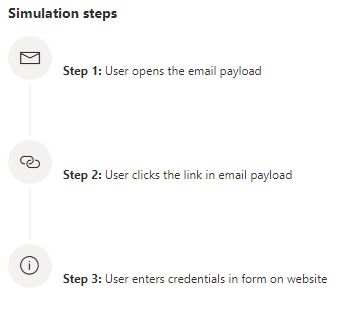
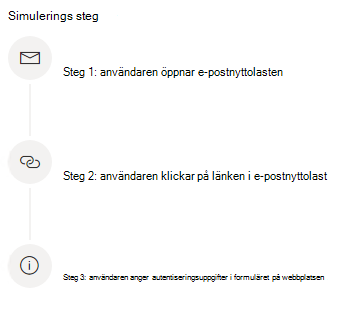
commit translated contents

diff --git a/microsoft-365/security/office-365-security/recommended-settings-for-eop-and-office365-atp.md b/microsoft-365/security/office-365-security/recommended-settings-for-eop-and-office365-atp.md
@@ -17,12 +17,12 @@ ms.collection:
 - M365-security-compliance
 - m365initiative-m365-defender
 description: Vad är metod tips för säkerhets inställningar för Exchange Online Protection (EOP) och Defender för Office 365? Vad är de senaste rekommendationerna för standard skydd? Vad ska användas om du vill veta mer? Vilka extrafunktioner får du om du även använder Defender för Office 365?
-ms.openlocfilehash: ab8640574d15cc1950ac0873ef90c4d984553510
-ms.sourcegitcommit: 815229e39a0f905d9f06717f00dc82e2a028fa7c
+ms.openlocfilehash: 032cd6a50f56fd3e1e47faebfaea5f6665553a4b
+ms.sourcegitcommit: 09518b7c9146cda7fd42839ee644ad418d48491a
 ms.translationtype: MT
 ms.contentlocale: sv-SE
-ms.lasthandoff: 11/03/2020
-ms.locfileid: "48845654"
+ms.lasthandoff: 11/12/2020
+ms.locfileid: "49001531"
 ---
 # <a name="recommended-settings-for-eop-and-microsoft-defender-for-office-365-security"></a>Rekommenderade inställningar för EOP och Microsoft Defender för Office 365-säkerhet
 
@@ -54,22 +54,22 @@ Information om hur du skapar och konfigurerar principer för skräp post hanteri
 
 |Säkerhetsfunktionens namn|Standard|Standard|Tillåts|Kommentar|
 |---|:---:|:---:|:---:|---|
-|Åtgärd för **skräp post** <br/><br/> _SpamAction_|**Flytta meddelandet till mappen skräp post** <br/><br/> `MoveToJmf`|**Flytta meddelandet till mappen skräp post** <br/><br/> `MoveToJmf`|**Karantän meddelande** <br/><br/> `Quarantine`||
-|Åtgärd för dubblettidentifiering för **snabb meddelanden** <br/><br/> _HighConfidenceSpamAction_|**Flytta meddelandet till mappen skräp post** <br/><br/> `MoveToJmf`|**Karantän meddelande** <br/><br/> `Quarantine`|**Karantän meddelande** <br/><br/> `Quarantine`||
-|Åtgärd för identifiering av **nätfiske-e-post** <br/><br/> _PhishSpamAction_|**Flytta meddelandet till mappen skräp post** <br/><br/> `MoveToJmf`|**Karantän meddelande** <br/><br/> `Quarantine`|**Karantän meddelande** <br/><br/> `Quarantine`||
-|Åtgärd för **e-post med hög exakthet** <br/><br/> _HighConfidencePhishAction_|**Karantän meddelande** <br/><br/> `Quarantine`|**Karantän meddelande** <br/><br/> `Quarantine`|**Karantän meddelande** <br/><br/> `Quarantine`||
-|**Mass utskick av e-post** <br/><br/> _BulkSpamAction_|**Flytta meddelandet till mappen skräp post** <br/><br/> `MoveToJmf`|**Flytta meddelandet till mappen skräp post** <br/><br/> `MoveToJmf`|**Karantän meddelande** <br/><br/> `Quarantine`||
-|Mass utskick <br/><br/> _BulkThreshold_|borttagning|18.6|9.4|Mer information finns i [Mass inklagomåls nivå (BCL) i Office 365](bulk-complaint-level-values.md).|
-|Karantän period <br/><br/> _QuarantineRetentionPeriod_|15 dagar|30 dagar|30 dagar||
-|**Säkerhets tips** <br/><br/> _InlineSafetyTipsEnabled_|På <br/><br/> `$true`|På <br/><br/> `$true`|På <br/><br/> `$true`||
-|Tillåtna avsändare <br/><br/> _AllowedSenders_|Inga|Inga|Inga||
-|Tillåtna avsändare-domäner <br/><br/> _AllowedSenderDomains_|Inga|Inga|Inga|Det är mycket dåligt att lägga till domäner i listan Tillåtna avsändare. Angripare kan skicka e-post som annars skulle filtreras bort. <br/><br/> Använd [förfalsknings intelligens](learn-about-spoof-intelligence.md) i säkerhets & Compliance Center på sidan **Inställningar för skräp post** för att granska alla avsändare som har falska e-postadresser i organisationens e-postdomäner eller som falska e-postadresser för avsändare i externa domäner.|
-|Spärrade avsändare <br/><br/> _BlockedSenders_|Inga|Inga|Inga||
-|Blockerade avsändare <br/><br/> _BlockedSenderDomains_|Inga|Inga|Inga||
-|**Aktivera skräp post meddelanden för slutanvändare** <br/><br/> _EnableEndUserSpamNotifications_|Inaktiverad <br/><br/> `$false`|Aktiverad <br/><br/> `$true`|Aktiverad <br/><br/> `$true`||
-|**Skicka skräp post meddelanden till slutanvändaren var (dagar)** <br/><br/> _EndUserSpamNotificationFrequency_|3 dagar|3 dagar|3 dagar||
-|**Spam** <br/><br/> _SpamZapEnabled_|Aktiverad <br/><br/> `$true`|Aktiverad <br/><br/> `$true`|Aktiverad <br/><br/> `$true`||
-|**Phish ZAP** <br/><br/> _PhishZapEnabled_|Aktiverad <br/><br/> `$true`|Aktiverad <br/><br/> `$true`|Aktiverad <br/><br/> `$true`||
+|Åtgärd för **skräp post** <p> _SpamAction_|**Flytta meddelandet till mappen skräp post** <p> `MoveToJmf`|**Flytta meddelandet till mappen skräp post** <p> `MoveToJmf`|**Karantän meddelande** <p> `Quarantine`||
+|Åtgärd för dubblettidentifiering för **snabb meddelanden** <p> _HighConfidenceSpamAction_|**Flytta meddelandet till mappen skräp post** <p> `MoveToJmf`|**Karantän meddelande** <p> `Quarantine`|**Karantän meddelande** <p> `Quarantine`||
+|Åtgärd för identifiering av **nätfiske-e-post** <p> _PhishSpamAction_|**Flytta meddelandet till mappen skräp post** <p> `MoveToJmf`|**Karantän meddelande** <p> `Quarantine`|**Karantän meddelande** <p> `Quarantine`||
+|Åtgärd för **e-post med hög exakthet** <p> _HighConfidencePhishAction_|**Karantän meddelande** <p> `Quarantine`|**Karantän meddelande** <p> `Quarantine`|**Karantän meddelande** <p> `Quarantine`||
+|**Mass utskick av e-post** <p> _BulkSpamAction_|**Flytta meddelandet till mappen skräp post** <p> `MoveToJmf`|**Flytta meddelandet till mappen skräp post** <p> `MoveToJmf`|**Karantän meddelande** <p> `Quarantine`||
+|Mass utskick <p> _BulkThreshold_|borttagning|18.6|9.4|Mer information finns i [Mass inklagomåls nivå (BCL) i Office 365](bulk-complaint-level-values.md).|
+|Karantän period <p> _QuarantineRetentionPeriod_|15 dagar|30 dagar|30 dagar||
+|**Säkerhets tips** <p> _InlineSafetyTipsEnabled_|På <p> `$true`|På <p> `$true`|På <p> `$true`||
+|Tillåtna avsändare <p> _AllowedSenders_|Inga|Inga|Inga||
+|Tillåtna avsändare-domäner <p> _AllowedSenderDomains_|Inga|Inga|Inga|Det är mycket dåligt att lägga till domäner i listan Tillåtna avsändare. Angripare kan skicka e-post som annars skulle filtreras bort. <p> Använd [förfalsknings intelligens](learn-about-spoof-intelligence.md) i säkerhets & Compliance Center på sidan **Inställningar för skräp post** för att granska alla avsändare som har falska e-postadresser i organisationens e-postdomäner eller som falska e-postadresser för avsändare i externa domäner.|
+|Spärrade avsändare <p> _BlockedSenders_|Inga|Inga|Inga||
+|Blockerade avsändare <p> _BlockedSenderDomains_|Inga|Inga|Inga||
+|**Aktivera skräp post meddelanden för slutanvändare** <p> _EnableEndUserSpamNotifications_|Inaktiverad <p> `$false`|Aktiverad <p> `$true`|Aktiverad <p> `$true`||
+|**Skicka skräp post meddelanden till slutanvändaren var (dagar)** <p> _EndUserSpamNotificationFrequency_|3 dagar|3 dagar|3 dagar||
+|**Spam** <p> _SpamZapEnabled_|Aktiverad <p> `$true`|Aktiverad <p> `$true`|Aktiverad <p> `$true`||
+|**Phish ZAP** <p> _PhishZapEnabled_|Aktiverad <p> `$true`|Aktiverad <p> `$true`|Aktiverad <p> `$true`||
 |_MarkAsSpamBulkMail_|På|På|På|Den här inställningen är bara tillgänglig i PowerShell.|
 |
 
@@ -108,10 +108,10 @@ Mer information om standard begränsningar för sändning av tjänsten finns i a
 
 |Säkerhetsfunktionens namn|Standard|Standard|Tillåts|Kommentar|
 |---|:---:|:---:|:---:|---|
-|**Maximalt antal mottagare per användare: extern Tim gräns** <br/><br/> _RecipientLimitExternalPerHour_|siffrorna|500|400|Standardvärdet 0 betyder att använda tjänstens standardvärden.|
-|**Maximalt antal mottagare per användare: intern Tim gräns** <br/><br/> _RecipientLimitInternalPerHour_|siffrorna|1000|800|Standardvärdet 0 betyder att använda tjänstens standardvärden.|
-|**Maximalt antal mottagare per användare: daglig gräns** <br/><br/> _RecipientLimitPerDay_|siffrorna|1000|800|Standardvärdet 0 betyder att använda tjänstens standardvärden.|
-|**Åtgärd när en användare överskrider gränserna** <br/><br/> _ActionWhenThresholdReached_|**Hindra användare från att skicka e-post till följande dag** <br/><br/> `BlockUserForToday`|**Hindra användare från att skicka e-post** <br/><br/> `BlockUser`|**Hindra användare från att skicka e-post** <br/><br/> `BlockUser`||
+|**Maximalt antal mottagare per användare: extern Tim gräns** <p> _RecipientLimitExternalPerHour_|siffrorna|500|400|Standardvärdet 0 betyder att använda tjänstens standardvärden.|
+|**Maximalt antal mottagare per användare: intern Tim gräns** <p> _RecipientLimitInternalPerHour_|siffrorna|1000|800|Standardvärdet 0 betyder att använda tjänstens standardvärden.|
+|**Maximalt antal mottagare per användare: daglig gräns** <p> _RecipientLimitPerDay_|siffrorna|1000|800|Standardvärdet 0 betyder att använda tjänstens standardvärden.|
+|**Åtgärd när en användare överskrider gränserna** <p> _ActionWhenThresholdReached_|**Hindra användare från att skicka e-post till följande dag** <p> `BlockUserForToday`|**Hindra användare från att skicka e-post** <p> `BlockUser`|**Hindra användare från att skicka e-post** <p> `BlockUser`||
 |
 
 ### <a name="eop-anti-malware-policy-settings"></a>EOP policy inställningar för mot skadlig program vara
@@ -122,11 +122,11 @@ Information om hur du skapar och konfigurerar principer mot skadlig program vara
 
 |Säkerhetsfunktionens namn|Standard|Standard|Tillåts|Kommentar|
 |---|:---:|:---:|:---:|---|
-|**Vill du meddela mottagare om deras meddelanden är i karantän?** <br/><br/> _Fattning_|Nej <br/><br/> _DeleteMessage_|Nej <br/><br/> _DeleteMessage_|Nej <br/><br/> _DeleteMessage_|Om skadlig kod hittas i en e-postbilaga är meddelandet satt i karantän och kan bara släppas av en administratör.|
-|**Filtret vanliga bilagor** <br/><br/> _EnableFileFilter_|Av <br/><br/> `$false`|På <br/><br/> `$true`|På <br/><br/> `$true`|Den här inställningen skapar karantän meddelanden som innehåller körbara bilagor baserat på filtyp, oavsett innehållet i bifogade filer.|
-|**Automatisk borttagning av skadlig program vara** <br/><br/> _ZapEnabled_|På <br/><br/> `$true`|På <br/><br/> `$true`|På <br/><br/> `$true`||
-|**Meddela interna avsändare** om det ej skickade meddelandet <br/><br/> _EnableInternalSenderNotifications_|Inaktiverad <br/><br/> `$false`|Inaktiverad <br/><br/> `$false`|Inaktiverad <br/><br/> `$false`||
-|**Meddela externa avsändare** för det ej skickade meddelandet <br/><br/> _EnableExternalSenderNotifications_|Inaktiverad <br/><br/> `$false`|Inaktiverad <br/><br/> `$false`|Inaktiverad <br/><br/> `$false`||
+|**Vill du meddela mottagare om deras meddelanden är i karantän?** <p> _Fattning_|Nej <p> _DeleteMessage_|Nej <p> _DeleteMessage_|Nej <p> _DeleteMessage_|Om skadlig kod hittas i en e-postbilaga är meddelandet satt i karantän och kan bara släppas av en administratör.|
+|**Filtret vanliga bilagor** <p> _EnableFileFilter_|Av <p> `$false`|På <p> `$true`|På <p> `$true`|Den här inställningen skapar karantän meddelanden som innehåller körbara bilagor baserat på filtyp, oavsett innehållet i bifogade filer.|
+|**Automatisk borttagning av skadlig program vara** <p> _ZapEnabled_|På <p> `$true`|På <p> `$true`|På <p> `$true`||
+|**Meddela interna avsändare** om det ej skickade meddelandet <p> _EnableInternalSenderNotifications_|Inaktiverad <p> `$false`|Inaktiverad <p> `$false`|Inaktiverad <p> `$false`||
+|**Meddela externa avsändare** för det ej skickade meddelandet <p> _EnableExternalSenderNotifications_|Inaktiverad <p> `$false`|Inaktiverad <p> `$false`|Inaktiverad <p> `$false`||
 |
 
 ### <a name="eop-default-anti-phishing-policy-settings"></a>EOP standard princip inställningar för anti-nätfiske
@@ -137,9 +137,9 @@ Mer information om de här inställningarna finns i [Inställningar för förfal
 
 |Säkerhetsfunktionens namn|Standard|Standard|Tillåts|Kommentar|
 |---|:---:|:---:|:---:|---|
-|**Aktivera skydd mot förfalskning** <br/><br/> _EnableAntispoofEnforcement_|På <br/><br/> `$true`|På <br/><br/> `$true`|På <br/><br/> `$true`||
-|**Aktivera oautentiserad avsändare** <br/><br/> _EnableUnauthenticatedSender_|På <br/><br/> `$true`|På <br/><br/> `$true`|På <br/><br/> `$true`|Lägger till ett frågetecken (?) till avsändarens foto i Outlook för oidentifierade avsändare. Mer information finns i [Inställningar för förfalskningar i principer för nätfiske](set-up-anti-phishing-policies.md).|
-|**Om e-post skickas av någon som inte har behörighet att använda din domän** <br/><br/> _AuthenticationFailAction_|**Flytta meddelandet till mottagarnas skräp post mappar** <br/><br/> `MoveToJmf`|**Flytta meddelandet till mottagarnas skräp post mappar** <br/><br/> `MoveToJmf`|**Sätt i karantän meddelandet** <br/><br/> `Quarantine`|Den här inställningen gäller för spärrade avsändare i [Spoof-intelligens](learn-about-spoof-intelligence.md).|
+|**Aktivera skydd mot förfalskning** <p> _EnableAntispoofEnforcement_|På <p> `$true`|På <p> `$true`|På <p> `$true`||
+|**Aktivera oautentiserad avsändare** <p> _EnableUnauthenticatedSender_|På <p> `$true`|På <p> `$true`|På <p> `$true`|Lägger till ett frågetecken (?) till avsändarens foto i Outlook för oidentifierade avsändare. Mer information finns i [Inställningar för förfalskningar i principer för nätfiske](set-up-anti-phishing-policies.md).|
+|**Om e-post skickas av någon som inte har behörighet att använda din domän** <p> _AuthenticationFailAction_|**Flytta meddelandet till mottagarnas skräp post mappar** <p> `MoveToJmf`|**Flytta meddelandet till mottagarnas skräp post mappar** <p> `MoveToJmf`|**Sätt i karantän meddelandet** <p> `Quarantine`|Den här inställningen gäller för spärrade avsändare i [Spoof-intelligens](learn-about-spoof-intelligence.md).|
 |
 
 ## <a name="microsoft-defender-for-office-365-security"></a>Säkerhet för Microsoft Defender för Office 365
@@ -168,19 +168,19 @@ Mer information om de här inställningarna finns i inställningar för [personi
 
 |Säkerhetsfunktionens namn|Standard|Standard|Tillåts|Kommentar|
 |---|:---:|:---:|:---:|---|
-|Skyddade användare: **lägga till användare att skydda** <br/><br/> _EnableTargetedUserProtection_ <br/><br/> _TargetedUsersToProtect_|Av <br/><br/> `$false` <br/><br/> none (ingen)|På <br/><br/> `$true` <br/><br/> \<list of users\>|På <br/><br/> `$true` <br/><br/> \<list of users\>|Beroende på din organisation rekommenderar vi att du lägger till användare (avsändare) i viktiga roller. Skyddade avsändare kan vara VD, ekonomi och andra chefs ledare. Skyddade avsändare kan till exempel omfatta medlemmar eller anslags tavla.|
-|Skyddade domäner: **Inkludera domänerna som jag äger automatiskt** <br/><br/> _EnableOrganizationDomainsProtection_|Av <br/><br/> `$false`|På <br/><br/> `$true`|På <br/><br/> `$true`||
-|Skyddade domäner: **Inkludera anpassade domäner** <br/><br/> _EnableTargetedDomainsProtection_ <br/><br/> _TargetedDomainsToProtect_|Av <br/><br/> `$false` <br/><br/> none (ingen)|På <br/><br/> `$true` <br/><br/> \<list of domains\>|På <br/><br/> `$true` <br/><br/> \<list of domains\>|Beroende på din organisation rekommenderar vi att du lägger till domäner (avsändare) som du inte äger, men du interagerar ofta.|
-|Skyddade användare: **om e-post skickas av en personifierad användare** <br/><br/> _TargetedUserProtectionAction_|**Tillämpa inte någon åtgärd** <br/><br/> `NoAction`|**Sätt i karantän meddelandet** <br/><br/> `Quarantine`|**Sätt i karantän meddelandet** <br/><br/> `Quarantine`||
-|Skyddade domäner: **om e-post skickas av en domänkontrollant** <br/><br/> _TargetedDomainProtectionAction_|**Tillämpa inte någon åtgärd** <br/><br/> `NoAction`|**Sätt i karantän meddelandet** <br/><br/> `Quarantine`|**Sätt i karantän meddelandet** <br/><br/> `Quarantine`||
-|**Visa tips för personifierade användare** <br/><br/> _EnableSimilarUsersSafetyTips_|Av <br/><br/> `$false`|På <br/><br/> `$true`|På <br/><br/> `$true`||
-|**Visa tips för personifierade domäner** <br/><br/> _EnableSimilarDomainsSafetyTips_|Av <br/><br/> `$false`|På <br/><br/> `$true`|På <br/><br/> `$true`||
-|**Visa tips för ovanliga tecken** <br/><br/> _EnableUnusualCharactersSafetyTips_|Av <br/><br/> `$false`|På <br/><br/> `$true`|På <br/><br/> `$true`||
-|**Aktivera post lådans intelligens?** <br/><br/> _EnableMailboxIntelligence_|På <br/><br/> `$true`|På <br/><br/> `$true`|På <br/><br/> `$true`||
-|**Aktivera post Låde skydd baserat personifieringstoken?** <br/><br/> _EnableMailboxIntelligenceProtection_|Av <br/><br/> `$false`|På <br/><br/> `$true`|På <br/><br/> `$true`||
-|**Om e-post skickas av en personifierad användare som skyddas av Mailbox Intelligence** <br/><br/> _MailboxIntelligenceProtectionAction_|**Tillämpa inte någon åtgärd** <br/><br/> `NoAction`|**Flytta meddelandet till mottagarnas skräp post mappar** <br/><br/> `MoveToJmf`|**Sätt i karantän meddelandet** <br/><br/> `Quarantine`||
-|**Betrodda avsändare** <br/><br/> _ExcludedSenders_|Inga|Inga|Inga|Beroende på din organisation rekommenderar vi att du lägger till användare som inte är markerade som nätfiske på grund av personifiering och inte andra filter.|
-|**Betrodda domäner** <br/><br/> _ExcludedDomains_|Inga|Inga|Inga|Beroende på din organisation rekommenderar vi att du lägger till domäner som felaktigt markeras som nätfiske på grund av personifiering och inte andra filter.|
+|Skyddade användare: **lägga till användare att skydda** <p> _EnableTargetedUserProtection_ <p> _TargetedUsersToProtect_|Av <p> `$false` <p> none (ingen)|På <p> `$true` <p> \<list of users\>|På <p> `$true` <p> \<list of users\>|Beroende på din organisation rekommenderar vi att du lägger till användare (avsändare) i viktiga roller. Skyddade avsändare kan vara VD, ekonomi och andra chefs ledare. Skyddade avsändare kan till exempel omfatta medlemmar eller anslags tavla.|
+|Skyddade domäner: **Inkludera domänerna som jag äger automatiskt** <p> _EnableOrganizationDomainsProtection_|Av <p> `$false`|På <p> `$true`|På <p> `$true`||
+|Skyddade domäner: **Inkludera anpassade domäner** <p> _EnableTargetedDomainsProtection_ <p> _TargetedDomainsToProtect_|Av <p> `$false` <p> none (ingen)|På <p> `$true` <p> \<list of domains\>|På <p> `$true` <p> \<list of domains\>|Beroende på din organisation rekommenderar vi att du lägger till domäner (avsändare) som du inte äger, men du interagerar ofta.|
+|Skyddade användare: **om e-post skickas av en personifierad användare** <p> _TargetedUserProtectionAction_|**Tillämpa inte någon åtgärd** <p> `NoAction`|**Sätt i karantän meddelandet** <p> `Quarantine`|**Sätt i karantän meddelandet** <p> `Quarantine`||
+|Skyddade domäner: **om e-post skickas av en domänkontrollant** <p> _TargetedDomainProtectionAction_|**Tillämpa inte någon åtgärd** <p> `NoAction`|**Sätt i karantän meddelandet** <p> `Quarantine`|**Sätt i karantän meddelandet** <p> `Quarantine`||
+|**Visa tips för personifierade användare** <p> _EnableSimilarUsersSafetyTips_|Av <p> `$false`|På <p> `$true`|På <p> `$true`||
+|**Visa tips för personifierade domäner** <p> _EnableSimilarDomainsSafetyTips_|Av <p> `$false`|På <p> `$true`|På <p> `$true`||
+|**Visa tips för ovanliga tecken** <p> _EnableUnusualCharactersSafetyTips_|Av <p> `$false`|På <p> `$true`|På <p> `$true`||
+|**Aktivera post lådans intelligens?** <p> _EnableMailboxIntelligence_|På <p> `$true`|På <p> `$true`|På <p> `$true`||
+|**Aktivera post Låde skydd baserat personifieringstoken?** <p> _EnableMailboxIntelligenceProtection_|Av <p> `$false`|På <p> `$true`|På <p> `$true`||
+|**Om e-post skickas av en personifierad användare som skyddas av Mailbox Intelligence** <p> _MailboxIntelligenceProtectionAction_|**Tillämpa inte någon åtgärd** <p> `NoAction`|**Flytta meddelandet till mottagarnas skräp post mappar** <p> `MoveToJmf`|**Sätt i karantän meddelandet** <p> `Quarantine`||
+|**Betrodda avsändare** <p> _ExcludedSenders_|Inga|Inga|Inga|Beroende på din organisation rekommenderar vi att du lägger till användare som inte är markerade som nätfiske på grund av personifiering och inte andra filter.|
+|**Betrodda domäner** <p> _ExcludedDomains_|Inga|Inga|Inga|Beroende på din organisation rekommenderar vi att du lägger till domäner som felaktigt markeras som nätfiske på grund av personifiering och inte andra filter.|
 |
 
 #### <a name="spoof-settings-in-anti-phishing-policies-in-microsoft-defender-for-office-365"></a>Inställningar för förfalskning i principer för nätfiske i Microsoft Defender för Office 365
@@ -191,9 +191,9 @@ Observera att dessa inställningar är tillgängliga i [princip inställningar f
 
 |Säkerhetsfunktionens namn|Standard|Tillåts|Kommentar|
 |---|---|---|---|
-|**Aktivera skydd mot förfalskning** <br/><br/> _EnableAntispoofEnforcement_|På <br/><br/> `$true`|På <br/><br/> `$true`||
-|**Aktivera oautentiserad avsändare** <br/><br/> _EnableUnauthenticatedSender_|På <br/><br/> `$true`|På <br/><br/> `$true`|Lägger till ett frågetecken (?) till avsändarens foto i Outlook för oidentifierade avsändare. Mer information finns i [Inställningar för förfalskningar i principer för nätfiske](set-up-anti-phishing-policies.md).|
-|**Om e-post skickas av någon som inte har behörighet att använda din domän** <br/><br/> _AuthenticationFailAction_|**Flytta meddelandet till mottagarnas skräp post mappar** <br/><br/> `MoveToJmf`|**Sätt i karantän meddelandet** <br/><br/> `Quarantine`|Den här inställningen gäller för spärrade avsändare i [Spoof-intelligens](learn-about-spoof-intelligence.md).|
+|**Aktivera skydd mot förfalskning** <p> _EnableAntispoofEnforcement_|På <p> `$true`|På <p> `$true`||
+|**Aktivera oautentiserad avsändare** <p> _EnableUnauthenticatedSender_|På <p> `$true`|På <p> `$true`|Lägger till ett frågetecken (?) till avsändarens foto i Outlook för oidentifierade avsändare. Mer information finns i [Inställningar för förfalskningar i principer för nätfiske](set-up-anti-phishing-policies.md).|
+|**Om e-post skickas av någon som inte har behörighet att använda din domän** <p> _AuthenticationFailAction_|**Flytta meddelandet till mottagarnas skräp post mappar** <p> `MoveToJmf`|**Sätt i karantän meddelandet** <p> `Quarantine`|Den här inställningen gäller för spärrade avsändare i [Spoof-intelligens](learn-about-spoof-intelligence.md).|
 |
 
 #### <a name="advanced-settings-in-anti-phishing-policies-in-microsoft-defender-for-office-365"></a>Avancerade inställningar i policy mot nätfiske i Microsoft Defender för Office 365
@@ -204,7 +204,7 @@ Mer information om den här inställningen finns i [avancerade nät fiske trösk
 
 |Säkerhetsfunktionens namn|Standard|Standard|Tillåts|Kommentar|
 |---|:---:|:---:|:---:|---|
-|**Avancerade nät fiske trösklar** <br/><br/> _PhishThresholdLevel_|**1-standard** <br/><br/> `1`|**2 – aggressivt** <br/><br/> `2`|**3 – mer aggressivt** <br/><br/> `3`||
+|**Avancerade nät fiske trösklar** <p> _PhishThresholdLevel_|**1-standard** <p> `1`|**2 – aggressivt** <p> `2`|**3 – mer aggressivt** <p> `3`||
 |
 
 ### <a name="safe-links-settings"></a>Inställningar för säkra länkar
@@ -221,9 +221,9 @@ I PowerShell använder du cmdleten [set-AtpPolicyForO365](https://docs.microsoft
 
 |Säkerhetsfunktionens namn|Standard|Standard|Tillåts|Kommentar|
 |---|:---:|:---:|:---:|---|
-|**Använda säkra länkar i: Office 365-program** <br/><br/> _EnableSafeLinksForO365Clients_|På <br/><br/> `$true`|På <br/><br/> `$true`|På <br/><br/> `$true`|Använda säkra länkar i Office 365 Desktop-och Mobile-appar (iOS och Android). Mer information finns i [Inställningar för säkra Länkar för Office 365-appar](atp-safe-links.md#safe-links-settings-for-office-365-apps).|
-|**Spåra inte när användare klickar på säkra länkar** <br/><br/> _TrackClicks_|På <br/><br/> `$false`|Av <br/><br/> `$true`|Av <br/><br/> `$true`|Om du inaktiverar den här inställningen (ange _TrackClicks_ till `$true` ) spåras användares klickningar i Office 365-appar som stöds.|
-|**Tillåt inte att användare klickar genom säkra länkar till ursprunglig URL** <br/><br/> _AllowClickThrough_|På <br/><br/> `$false`|På <br/><br/> `$false`|På <br/><br/> `$false`|Om du aktiverar den här inställningen (inställningen _AllowClickThrough_ to `$false` ) förhindras att klicka dig fram till den ursprungliga URL-adressen i Office 365-appar som stöds.|
+|**Använda säkra länkar i: Office 365-program** <p> _EnableSafeLinksForO365Clients_|På <p> `$true`|På <p> `$true`|På <p> `$true`|Använda säkra länkar i Office 365 Desktop-och Mobile-appar (iOS och Android). Mer information finns i [Inställningar för säkra Länkar för Office 365-appar](atp-safe-links.md#safe-links-settings-for-office-365-apps).|
+|**Spåra inte när användare klickar på säkra länkar** <p> _TrackClicks_|På <p> `$false`|Av <p> `$true`|Av <p> `$true`|Om du inaktiverar den här inställningen (ange _TrackClicks_ till `$true` ) spåras användares klickningar i Office 365-appar som stöds.|
+|**Tillåt inte att användare klickar genom säkra länkar till ursprunglig URL** <p> _AllowClickThrough_|På <p> `$false`|På <p> `$false`|På <p> `$false`|Om du aktiverar den här inställningen (inställningen _AllowClickThrough_ to `$false` ) förhindras att klicka dig fram till den ursprungliga URL-adressen i Office 365-appar som stöds.|
 |
 
 #### <a name="safe-links-policy-settings"></a>Princip inställningar för säkra länkar
@@ -239,13 +239,13 @@ I PowerShell använder du cmdleten [New-SafeLinksPolicy](https://docs.microsoft.
 
 |Säkerhetsfunktionens namn|Standard|Standard|Tillåts|Kommentar|
 |---|:---:|:---:|:---:|---|
-|**Välj åtgärd för okända URL-adresser i meddelanden** <br/><br/> _IsEnabled_|Av <br/><br/> `$false`|På <br/><br/> `$true`|På <br/><br/> `$true`||
-|**Välj åtgärd för okända eller potentiellt skadliga URL-adresser i Microsoft Teams** <br/><br/> _EnableSafeLinksForTeams_|Av <br/><br/> `$false`|På <br/><br/> `$true`|På <br/><br/> `$true`||
-|**Använda URL-genomsökning i real tid för misstänkta länkar och länkar som pekar på filer** <br/><br/> _ScanUrls_|Av <br/><br/> `$false`|På <br/><br/> `$true`|På <br/><br/> `$true`||
-|**Vänta på att URL-genomsökningen ska slutföras innan du levererar meddelandet** <br/><br/> _DeliverMessageAfterScan_|Av <br/><br/> `$false`|På <br/><br/> `$true`|På <br/><br/> `$true`||
-|**Använda säkra länkar till e-postmeddelanden som skickas inom organisationen** <br/><br/> _EnableForInternalSenders_|Av <br/><br/> `$false`|På <br/><br/> `$true`|På <br/><br/> `$true`||
-|**Spåra inte användar klickningar** <br/><br/> _DoNotTrackUserClicks_|Av <br/><br/> `$false`|Av <br/><br/> `$false`|Av <br/><br/> `$false`|Om du inaktiverar den här inställningen (ange _DoNotTrackUserClicks_ till `$false` ) spåras användare.|
-|**Tillåt inte att användare klickar genom till ursprunglig URL** <br/><br/> _DoNotAllowClickThrough_|Av <br/><br/> `$false`|På <br/><br/> `$true`|På <br/><br/> `$true`|Om du aktiverar den här inställningen (inställningen _DoNotAllowClickThrough_ to `$true` ) förhindras genom att klicka dig fram till original-URL: en.|
+|**Välj åtgärd för okända URL-adresser i meddelanden** <p> _IsEnabled_|Av <p> `$false`|På <p> `$true`|På <p> `$true`||
+|**Välj åtgärd för okända eller potentiellt skadliga URL-adresser i Microsoft Teams** <p> _EnableSafeLinksForTeams_|Av <p> `$false`|På <p> `$true`|På <p> `$true`||
+|**Använda URL-genomsökning i real tid för misstänkta länkar och länkar som pekar på filer** <p> _ScanUrls_|Av <p> `$false`|På <p> `$true`|På <p> `$true`||
+|**Vänta på att URL-genomsökningen ska slutföras innan du levererar meddelandet** <p> _DeliverMessageAfterScan_|Av <p> `$false`|På <p> `$true`|På <p> `$true`||
+|**Använda säkra länkar till e-postmeddelanden som skickas inom organisationen** <p> _EnableForInternalSenders_|Av <p> `$false`|På <p> `$true`|På <p> `$true`||
+|**Spåra inte användar klickningar** <p> _DoNotTrackUserClicks_|Av <p> `$false`|Av <p> `$false`|Av <p> `$false`|Om du inaktiverar den här inställningen (ange _DoNotTrackUserClicks_ till `$false` ) spåras användare.|
+|**Tillåt inte att användare klickar genom till ursprunglig URL** <p> _DoNotAllowClickThrough_|Av <p> `$false`|På <p> `$true`|På <p> `$true`|Om du aktiverar den här inställningen (inställningen _DoNotAllowClickThrough_ to `$true` ) förhindras genom att klicka dig fram till original-URL: en.|
 |
 
 ### <a name="safe-attachments-settings"></a>Inställningar för säkra bifogade filer
@@ -262,9 +262,9 @@ I PowerShell använder du cmdleten [set-AtpPolicyForO365](https://docs.microsoft
 
 |Säkerhetsfunktionens namn|Standard|Standard|Tillåts|Kommentar|
 |---|:---:|:---:|:---:|---|
-|**Aktivera ATP för SharePoint, OneDrive och Microsoft Teams** <br/><br/> _EnableATPForSPOTeamsODB_|På <br/><br/> `$true`|På <br/><br/> `$true`||
-|**Aktivera säkra dokument för Office-klienter**<bt/><br/> _EnableSafeDocs_|På <br/><br/> `$true`|På <br/><br/> `$true`|Den här inställningen är bara tillgänglig med Microsoft 365 E5-eller Microsoft 365 E5-säkerhets licenser. Mer information finns i [säkra dokument i Microsoft Defender för Office 365](safe-docs.md).|
-|**Tillåt att personer klickar via skyddad vy även om säkra dokument har identifierat filen som skadlig**<bt/><br/> _AllowSafeDocsOpen_|Av <br/><br/> `$false`|Av <br/><br/> `$false`|Den här inställningen är relaterad till säkra dokument.|
+|**Aktivera ATP för SharePoint, OneDrive och Microsoft Teams** <p> _EnableATPForSPOTeamsODB_|På <p> `$true`|På <p> `$true`||
+|**Aktivera säkra dokument för Office-klienter**<bt/><br/> _EnableSafeDocs_|På <p> `$true`|På <p> `$true`|Den här inställningen är bara tillgänglig med Microsoft 365 E5-eller Microsoft 365 E5-säkerhets licenser. Mer information finns i [säkra dokument i Microsoft Defender för Office 365](safe-docs.md).|
+|**Tillåt att personer klickar via skyddad vy även om säkra dokument har identifierat filen som skadlig**<bt/><br/> _AllowSafeDocsOpen_|Av <p> `$false`|Av <p> `$false`|Den här inställningen är relaterad till säkra dokument.|
 |
 
 #### <a name="safe-attachments-policy-settings"></a>Princip inställningar för säkra bifogade filer
@@ -280,9 +280,9 @@ I PowerShell använder du cmdleten [New-SafeAttachmentPolicy](https://docs.micro
 
 |Säkerhetsfunktionens namn|Standard|Standard|Tillåts|Kommentar|
 |---|:---:|:---:|:---:|---|
-|**Osäkra bifogade filer, svar på skadlig program vara** <br/><br/> _Fattning_|Blockera <br/><br/> `Block`|Blockera <br/><br/> `Block`|Blockera <br/><br/> `Block`||
-|**Omdirigera bilaga vid identifiering** : **Aktivera omdirigering** <br/><br/> _Omdirigeringstid_ <br/><br/> _RedirectAddress_|Av och ingen e-postadress angavs. <br/><br/> `$true` <br/><br/> none (ingen)|På och ange en e-postadress. <br/><br/> `$true` <br/><br/> en e-postadress|På och ange en e-postadress. <br/><br/> `$true` <br/><br/> en e-postadress|Omdirigera meddelanden till en säkerhets administratör för granskning.|
-|**Använd ovanstående markering om genomsökning av skadlig kod för bifogade filer eller fel uppstår.** <br/><br/> _ActionOnError_|På <br/><br/> `$true`|På <br/><br/> `$true`|På <br/><br/> `$true`||
+|**Osäkra bifogade filer, svar på skadlig program vara** <p> _Fattning_|Blockera <p> `Block`|Blockera <p> `Block`|Blockera <p> `Block`||
+|**Omdirigera bilaga vid identifiering** : **Aktivera omdirigering** <p> _Omdirigeringstid_ <p> _RedirectAddress_|Av och ingen e-postadress angavs. <p> `$true` <p> none (ingen)|På och ange en e-postadress. <p> `$true` <p> en e-postadress|På och ange en e-postadress. <p> `$true` <p> en e-postadress|Omdirigera meddelanden till en säkerhets administratör för granskning.|
+|**Använd ovanstående markering om genomsökning av skadlig kod för bifogade filer eller fel uppstår.** <p> _ActionOnError_|På <p> `$true`|På <p> `$true`|På <p> `$true`||
 |
 
 ## <a name="related-articles"></a>Relaterade artiklar

diff --git a/microsoft-365/admin/security-and-compliance/multi-factor-authentication-microsoft-365.md b/microsoft-365/admin/security-and-compliance/multi-factor-authentication-microsoft-365.md
@@ -21,12 +21,12 @@ search.appverid:
 ms.assetid: 043807b2-21db-4d5c-b430-c8a6dee0e6ba
 ROBOTS: NOINDEX, NOFOLLOW
 description: Lär dig mer om multifaktorautentisering i Microsoft 365.
-ms.openlocfilehash: bca84e949e696b483b567bf5f72233840023abca
-ms.sourcegitcommit: dffb9b72acd2e0bd286ff7e79c251e7ec6e8ecae
+ms.openlocfilehash: cb425f3fd3d97dc0cd8815699bd22cb2540aed46
+ms.sourcegitcommit: 09518b7c9146cda7fd42839ee644ad418d48491a
 ms.translationtype: MT
 ms.contentlocale: sv-SE
-ms.lasthandoff: 09/17/2020
-ms.locfileid: "47948718"
+ms.lasthandoff: 11/12/2020
+ms.locfileid: "49001519"
 ---
 # <a name="multi-factor-authentication-for-microsoft-365"></a>Multifaktorautentisering för Microsoft 365
 
@@ -40,26 +40,26 @@ För att tillhandahålla en ytterligare säkerhets nivå för inloggningar måst
 Den alternativa kontrollen används inte förrän användarens lösen ord har verifierats. Med MFA, även om ett starkt användar lösen ord äventyras, har angriparen inte din telefon eller ditt finger avtryck för att slutföra inloggningen.
 
 ## <a name="mfa-support-in-microsoft-365"></a>MFA-stöd i Microsoft 365
+
 Som standard stöder både Microsoft 365 och Office 365 MFA för användar konton med:
 
 - Ett textmeddelande som skickas till en telefon som kräver att användaren skriver en verifierings kod.
 - Ett telefonsamtal.
 - Programmet Microsoft Authenticator smart telefon.
 
-I båda fallen använder MFA-inloggningen det "något du har med dig som inte är lätt att dubblera" för den ytterligare verifieringen.
-Det finns flera sätt att aktivera MFA för Microsoft 365 och Office 365:
+I båda fallen använder MFA-inloggningen det "något du har med dig som inte är lätt att dubblera" för den ytterligare verifieringen. Det finns flera sätt att aktivera MFA för Microsoft 365 och Office 365:
 
 - Med säkerhets standarder
 - Med principer för villkorsstyrd åtkomst
 - För varje enskilt användar konto (rekommenderas inte)
 
 Dessa sätt baseras på ditt Microsoft 365-abonnemang.
-    
-|Planera  |Rekommendation  | Typ av kund |
-|---------|---------|----------|
-| Alla Microsoft 365-abonnemang | Använd säkerhets standarder, som kräver MFA för alla användar konton. <br> Du kan också kräva MFA för ett konto per användare, men det rekommenderas inte. | Småföretag |
-| Microsoft 365 Business Premium <br><br> Microsoft 365 E3 <br><br> Azure Active Directory (Azure AD) Premium P1-licenser | Använd villkorsstyrda åtkomst principer för att kräva MFA för användar konton baserat på grupp medlemskap, appar eller andra villkor. | Småföretag till företag |
-| Microsoft 365 E5 <br><br> Azure AD Premium P2-licenser | Använd Azure AD Identity Protection för att kräva MFA utifrån villkor för inloggnings risker. |  Enterprise |
+
+|Planera|Rekommendation|Typ av kund|
+|---|---|---|
+|Alla Microsoft 365-abonnemang|Använd säkerhets standarder, som kräver MFA för alla användar konton. <p> Du kan också konfigurera användarspecifik MFA för enskilda användar konton, men det rekommenderas inte.|Småföretag|
+|Microsoft 365 Business Premium <p> Microsoft 365 E3 <p> Azure Active Directory (Azure AD) Premium P1-licenser|Använd villkorsstyrda åtkomst principer för att kräva MFA för användar konton baserat på grupp medlemskap, appar eller andra villkor.|Småföretag till företag|
+|Microsoft 365 E5 <p> Azure AD Premium P2-licenser|Använd Azure AD Identity Protection för att kräva MFA utifrån villkor för inloggnings risker.|Enterprise|
 ||||
 
 ### <a name="security-defaults"></a>Standardinställningar för säkerhet
@@ -79,7 +79,7 @@ Du aktiverar eller inaktiverar säkerhets standarder från fönstret **Egenskape
 
 Du kan använda säkerhets standarder med alla Microsoft 365-abonnemang.
 
-Mer information finns i den här [översikten över standardinställningar för säkerhet](https://docs.microsoft.com/azure/active-directory/fundamentals/concept-fundamentals-security-defaults). 
+Mer information finns i den här [översikten över standardinställningar för säkerhet](https://docs.microsoft.com/azure/active-directory/fundamentals/concept-fundamentals-security-defaults).
 
 ### <a name="conditional-access-policies"></a>Principer för villkorsstyrd åtkomst
 
@@ -93,13 +93,13 @@ Du kan också använda villkorsstyrda åtkomst principer för mer avancerade fun
 
 Du konfigurerar villkorsstyrda åtkomst principer från fönstret **säkerhet** för Azure AD i Azure-portalen.
 
-![Picure för villkorsstyrd åtkomst](../../media/multi-factor-authentication-microsoft-365/conditional-access-mfa.png)
+![Bild av meny alternativet för villkorsstyrd åtkomst](../../media/multi-factor-authentication-microsoft-365/conditional-access-mfa.png)
 
 Du kan använda villkorsstyrda åtkomst principer med:
 
 - Microsoft 365 Business Premium
 - Microsoft 365 E3 och E5
-- Azure AD Premium P1-och Azure AD Premium P2-licenser 
+- Azure AD Premium P1-och Azure AD Premium P2-licenser
 
 För småföretag med Microsoft 365 Business Premium kan du enkelt använda villkorsstyrda åtkomst principer med följande steg:
 
@@ -134,9 +134,9 @@ Du kan använda Azure AD Identity Protection och riskfyllda villkorsstyrda åtko
 
 Mer information finns i den här [översikt över Azure AD Identity Protection](https://docs.microsoft.com/azure/active-directory/identity-protection/overview-identity-protection).
 
-### <a name="legacy-per-person-mfa-not-recommended"></a>Bakåtkompatibelt för alla personer (rekommenderas inte)
+### <a name="legacy-per-user-mfa-not-recommended"></a>Legacy användarspecifik för användare (rekommenderas inte)
 
-Du bör använda antingen säkerhets standarder eller villkorsstyrda åtkomst principer för att kräva MFA för inloggnings programmen för ditt användar konto. Om något av dessa inte kan användas rekommenderar Microsoft starkt MFA för användar konton som har administratörs roller, särskilt den globala administratörs rollen, för alla storleks abonnemang. 
+Du bör använda antingen säkerhets standarder eller villkorsstyrda åtkomst principer för att kräva MFA för inloggnings programmen för ditt användar konto. Om något av dessa inte kan användas rekommenderar Microsoft starkt MFA för användar konton som har administratörs roller, särskilt den globala administratörs rollen, för alla storleks abonnemang.
 
 Du aktiverar MFA för enskilda användar konton i det **aktiva användar** fönstret i administrations centret för Microsoft 365.
 
@@ -148,11 +148,11 @@ När användaren sedan loggar in uppmanas de att registrera sig för MFA och vä
 
 I den här tabellen visas resultatet av att aktivera MFA med standardinställningar för säkerhet, principer för villkorsstyrd åtkomst och användarspecifika kontoinställningar.
 
-|| Aktiverat | Inaktiverad | Metod för sekundär autentisering |
-|:-------|:-----|:-------|:-------|
-| **Standardinställningar för säkerhet** | Det går inte att använda principer för villkorsstyrd åtkomst |   Det går att använda principer för villkorsstyrd åtkomst | Microsoft Authenticator-appen |
-| **Principer för villkorsstyrd åtkomst** |Om några är aktiverade kan du inte aktivera standardinställningar för säkerhet | Om alla är inaktiverade kan du aktivera standardinställningar för säkerhet | Användardefinierad under MFA-registrering |
-| **Bakåtkompatibelt för alla personer (rekommenderas inte)** | Åsidosätter säkerhets standarder och villkorsstyrda åtkomst principer som kräver MFA för varje inloggning | Åsidosatt av säkerhets standarder och villkorsstyrda åtkomst principer | Användardefinierad under MFA-registrering|
+||Aktiverat|Inaktiverad|Metod för sekundär autentisering|
+|---|---|---|---|
+|**Standardinställningar för säkerhet**|Kan inte använda principer för villkorsstyrd åtkomst|Det går att använda principer för villkorsstyrd åtkomst|Microsoft Authenticator-appen|
+|**Principer för villkorsstyrd åtkomst**|Om det finns några är det möjligt att du inte kan aktivera säkerhets standarder|Om alla är inaktiverade kan du aktivera standardinställningar för säkerhet|Användardefinierad under MFA-registrering|
+|**Legacy användarspecifik för användare (rekommenderas inte)**|Åsidosätter säkerhets standarder och villkorsstyrda åtkomst principer som kräver MFA för varje inloggning|Åsidosatt av säkerhets standarder och villkorsstyrda åtkomst principer|Användardefinierad under MFA-registrering|
 ||||
 
 Om säkerhets standarder är aktiverade ombeds alla nya användare om MFA-registrering och användning av Microsoft Authenticator-appen vid nästa inloggning.
